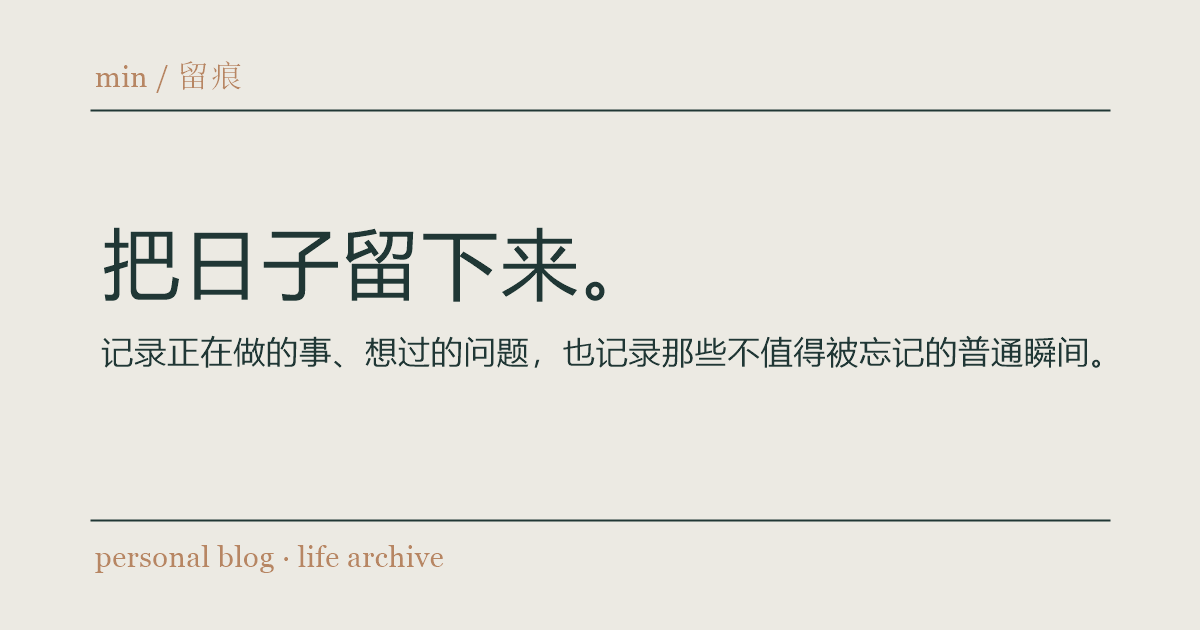
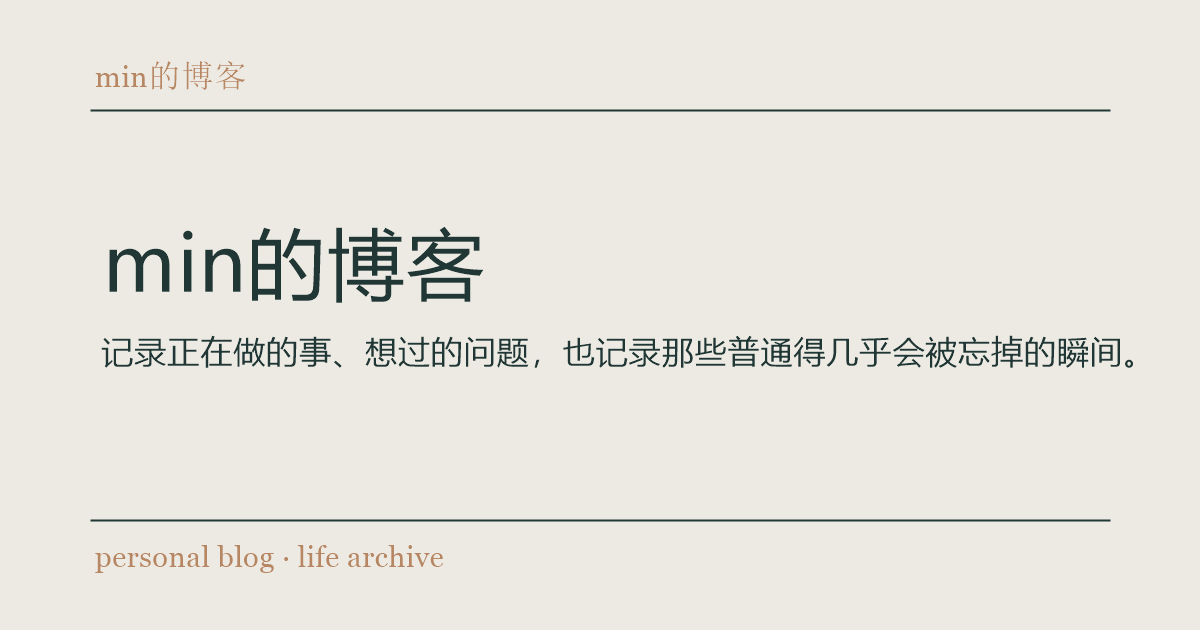
chore: rename blog branding

Changed region(s): [[0.0925, 0.3619, 0.5242, 0.4825], [0.5858, 0.5127, 0.9558, 0.6032], [0.1233, 0.0905, 0.2158, 0.1508]]

diff --git a/src/pages/rss.xml.js b/src/pages/rss.xml.js
@@ -22,7 +22,7 @@ export async function GET(context) {
   ].sort((a, b) => b.pubDate.getTime() - a.pubDate.getTime());
 
   return rss({
-    title: 'min / 留痕',
+    title: 'min的博客',
     description: '记录做过的事、想过的问题，以及那些不值得被忘记的普通瞬间。',
     site: new URL(import.meta.env.BASE_URL, context.site),
     items,

diff --git a/README.md b/README.md
@@ -1,4 +1,4 @@
-# personal-blog · 留痕
+# personal-blog · min的博客
 
 一个长期维护的个人博客 / 数字花园 / 生活档案。
 
